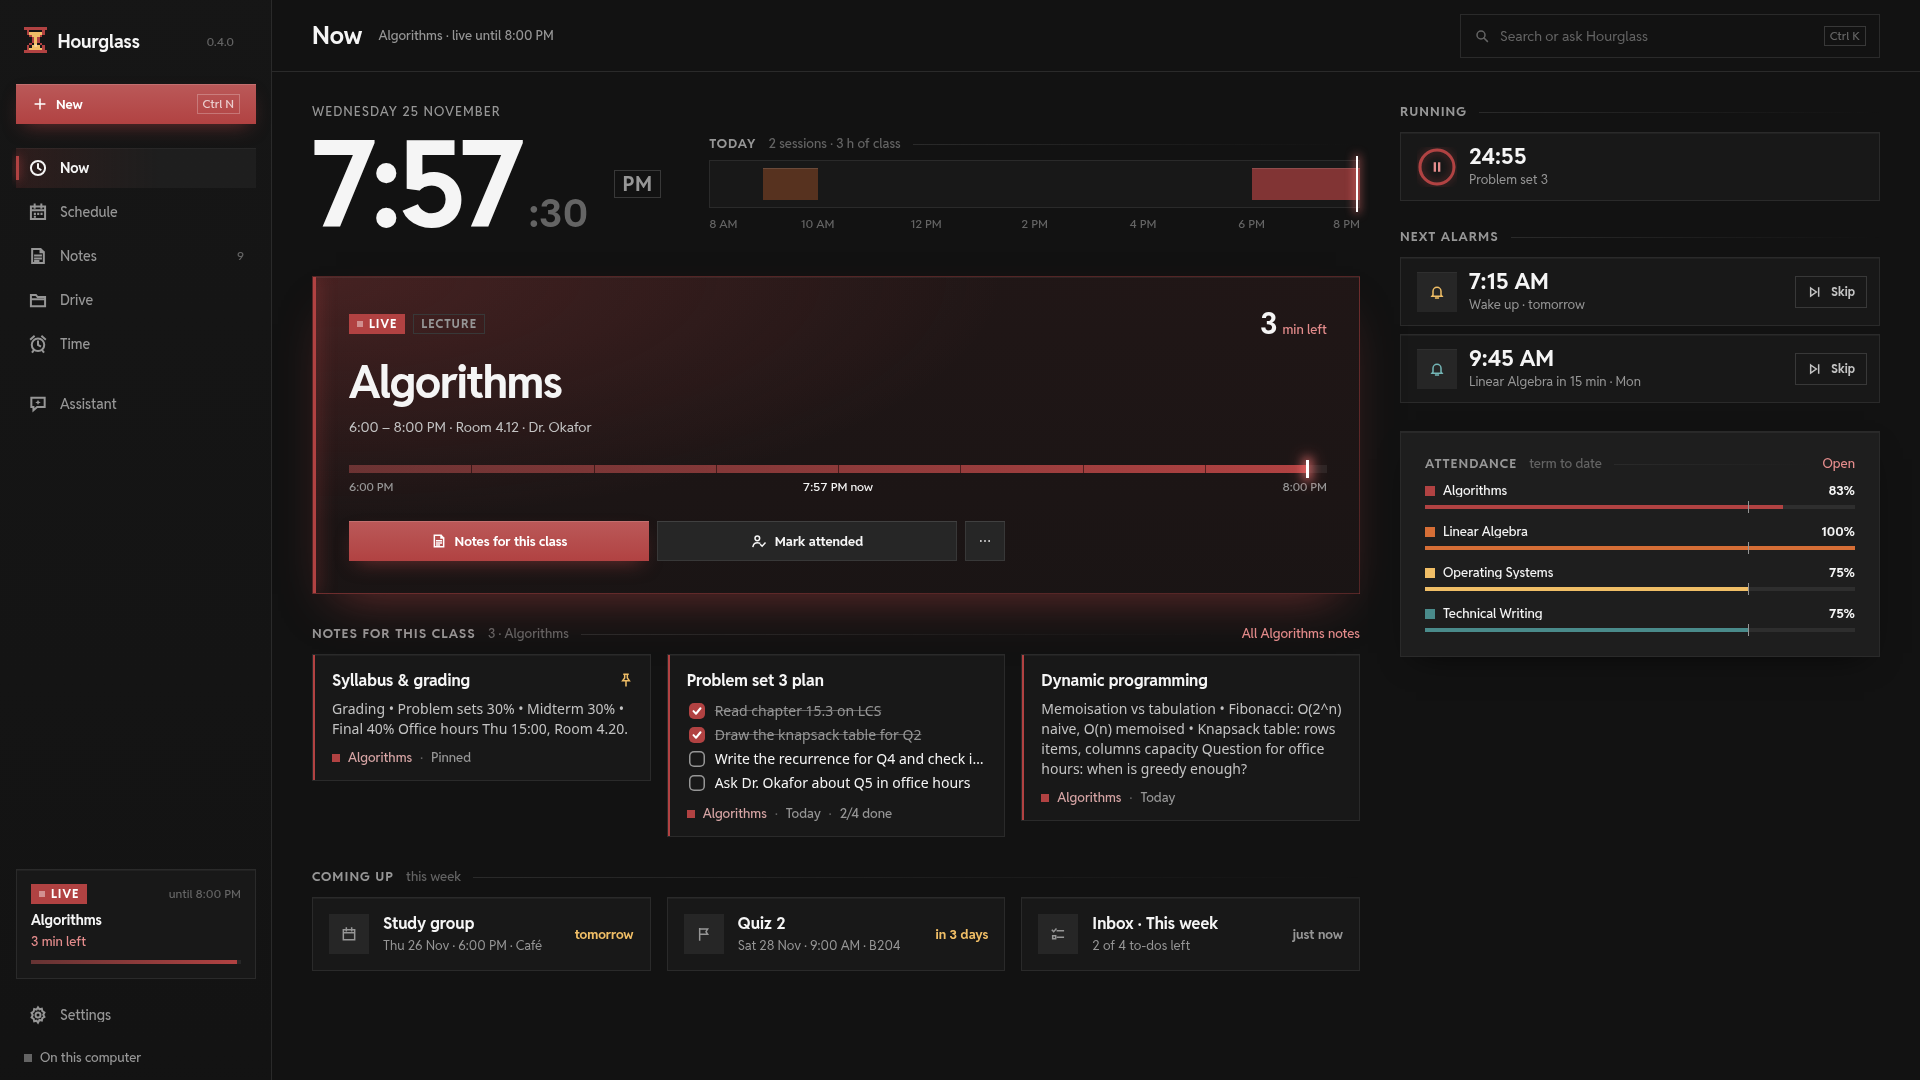
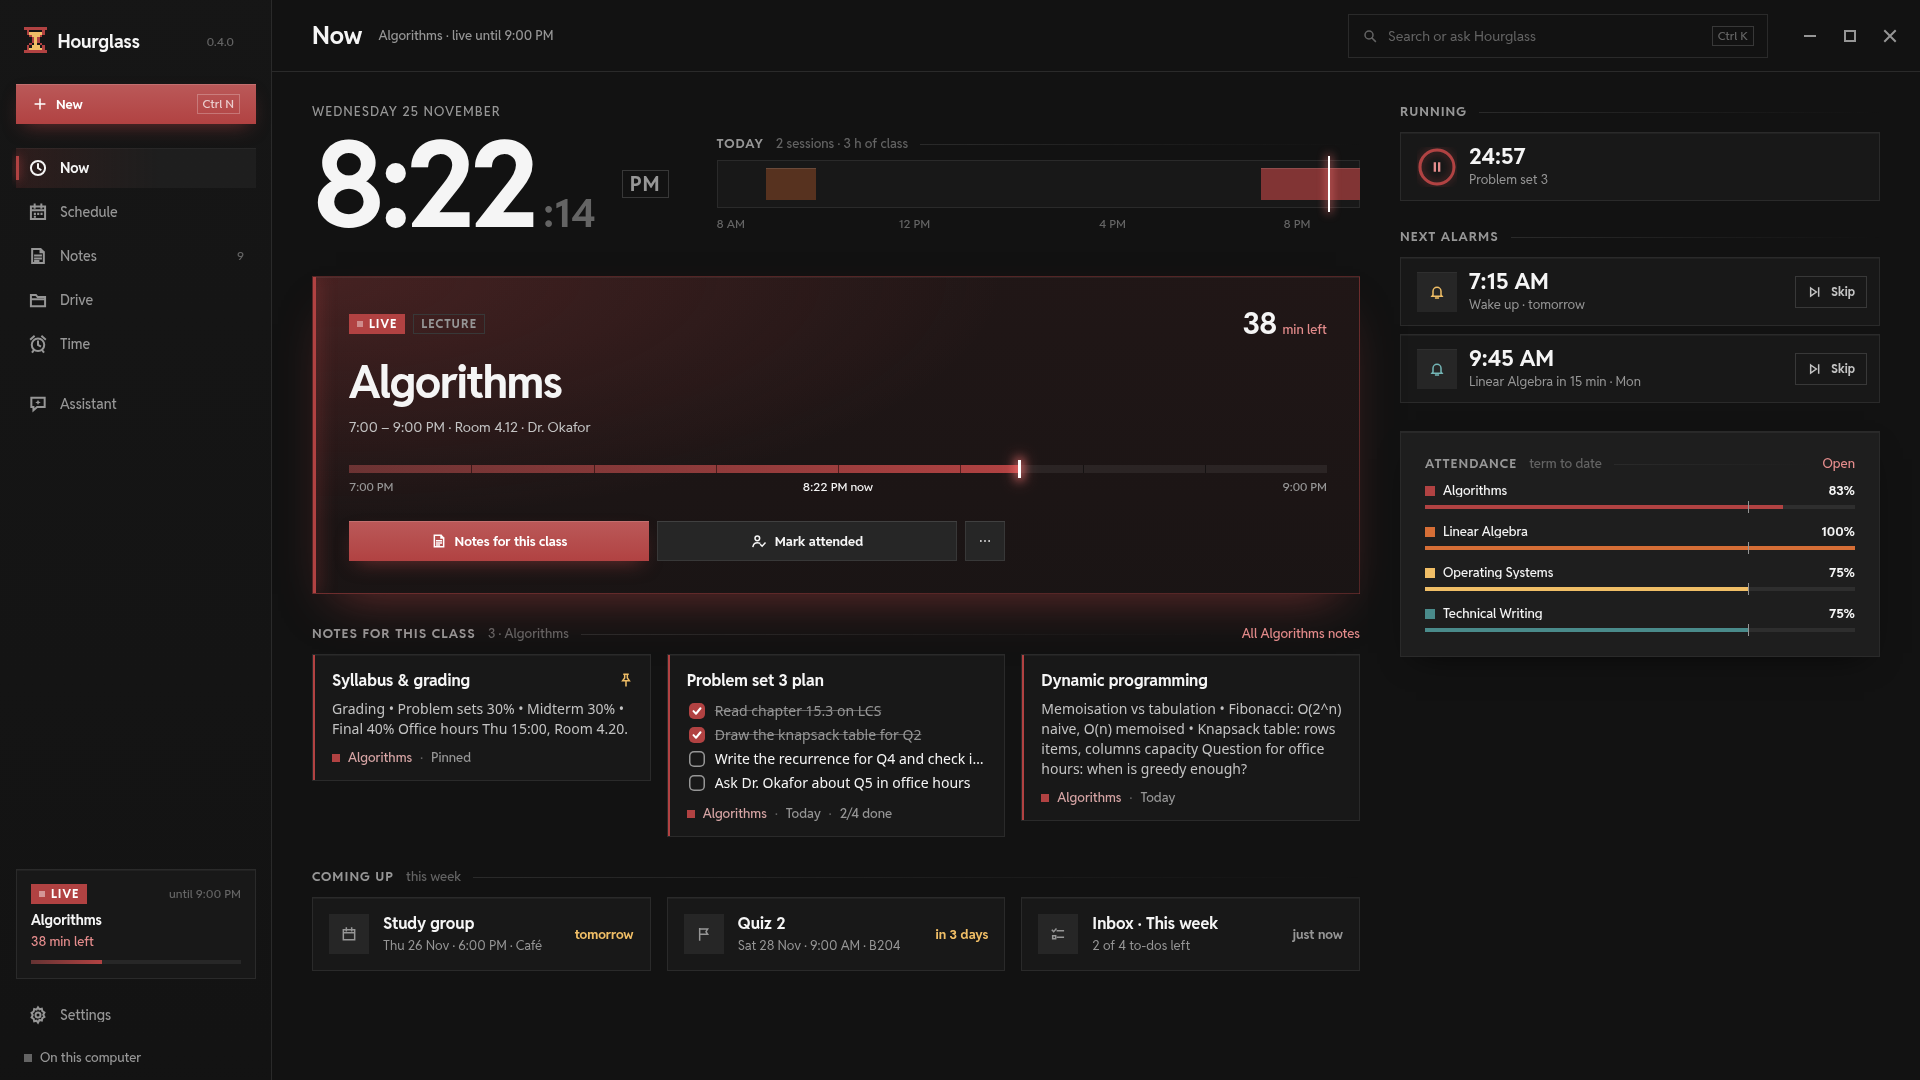
Desktop 0.4: own window controls instead of the native title bar
- decorations(false) on the main window; capabilities grant minimize, maximize, toggle-maximize, is-maximized, close, start-dragging, start-resize-dragging
- ui/window.js: min / max (restore when maximized) / close at the right end of every page header, drawn on an 18-unit grid at 18 px, close hovers the red accent; the signed-out window gets a slim bar with the same buttons
- The header's empty parts and the sidebar logo row are a drag region (double-click maximizes); Alt+F4 closes; edge handles resize through startResizeDragging
- Close still hides to the tray (CloseRequested is unchanged)

diff --git a/desktop/ui/window.js b/desktop/ui/window.js
@@ -1,0 +1,58 @@
+// The window's own frame: minimize / maximize / close at the right end of the top bar (the native title bar is off),
+// a drag region for the bar and the sidebar's logo row, and invisible edge handles so the undecorated window still
+// resizes. Looks and behaves like Jukebox's. In a plain browser (dev) the buttons do nothing.
+import { h } from './dom.js';
+
+const T = globalThis.__TAURI__;
+const win = T?.window?.getCurrentWindow?.();
+
+// The art is drawn on an 18-unit grid and shown at 18 px, so one unit is one screen pixel: 2 px square-capped
+// strokes on whole coordinates land exactly on pixels.
+const svg = (cls, body) => `<svg class="${cls}" width="18" height="18" viewBox="0 0 18 18" fill="none" stroke="currentColor" stroke-width="2" stroke-linecap="square" stroke-linejoin="miter" aria-hidden="true">${body}</svg>`;
+const ART = {
+  min: svg('w-min', '<path d="M4 9h10"/>'),
+  max: svg('w-max', '<path d="M4 4h10v10H4z"/>') + svg('w-restore', '<path d="M7 7V3h8v8h-4"/><path d="M3 7h8v8H3z"/>'),
+  close: svg('w-close', '<path d="M4 4l10 10M14 4L4 14"/>'),
+};
+const LABEL = { min: 'Minimize', max: 'Maximize', close: 'Close' };
+
+// Three buttons; every cluster on screen follows the window's maximize state.
+export function windowControls() {
+  const btn = (a) => h('button', { class: `wbtn ${a === 'close' ? 'wclose' : ''}`, type: 'button', 'data-win': a, 'aria-label': LABEL[a], 'data-tip': LABEL[a], html: ART[a],
+    onclick: () => {
+      if (!win) return;
+      if (a === 'min') win.minimize().catch(() => {});
+      else if (a === 'max') win.toggleMaximize().then(syncMax).catch(() => {});
+      else win.close().catch(() => {});
+    } });
+  return h('div', { class: 'wctl' }, btn('min'), btn('max'), btn('close'));
+}
+
+// A drag region is the element itself, not its children: mark the bar and its plain text/gap elements.
+export function dragRegion(...els) { for (const el of els) if (el) el.setAttribute('data-tauri-drag-region', ''); return els[0]; }
+
+function syncMax() {
+  win?.isMaximized().then((m) => {
+    document.body.classList.toggle('maxed', m);
+    for (const b of document.querySelectorAll('[data-win]')) {
+      b.classList.toggle('maximized', m);
+      if (b.dataset.win === 'max') { const t = m ? 'Restore' : 'Maximize'; b.setAttribute('aria-label', t); b.dataset.tip = t; }
+    }
+  }).catch(() => {});
+}
+
+if (win) {
+  // Alt+F4: with no native frame the page can hold the key, so it closes the window the way the X does
+  // (the window hides to the tray; Quit in the tray menu ends the app).
+  addEventListener('keydown', (e) => { if (e.altKey && e.key === 'F4') { e.preventDefault(); win.close().catch(() => {}); } });
+  // Edge handles: the page covers the whole window, so the native frame can't reach the edges.
+  const rz = h('div', { id: 'rz' }, ['North', 'South', 'East', 'West', 'NorthEast', 'NorthWest', 'SouthEast', 'SouthWest'].map((d) => h('div', {
+    class: `rz rz-${d}`,
+    onmousedown: (e) => { if (e.button !== 0) return; e.preventDefault(); win.startResizeDragging(d).catch(() => {}); },
+  })));
+  document.body.append(rz);
+  // Double-click, snapping and the keyboard change the state without the button, so the glyph follows the window.
+  let t = 0;
+  win.onResized?.(() => { clearTimeout(t); t = setTimeout(syncMax, 80); });
+  syncMax();
+}

diff --git a/desktop/ui/app.js b/desktop/ui/app.js
@@ -8,6 +8,7 @@ import { PAGES, NAV } from './pages/index.js';
 import * as dialogs from './pages/dialogs.js';
 import { startUploadPanel } from './uploads.js';
 import './native.js';
+import { windowControls, dragRegion } from './window.js';
 
 const TAURI = globalThis.__TAURI__;
 const invoke = (cmd, args) => TAURI?.core?.invoke(cmd, args);
@@ -39,13 +40,17 @@ const ctx = {
   // The page header every page draws (REDESIGN §3): title, a muted context line or controls, actions.
   // Every header ends with Search or ask (the command palette, Ctrl K).
   head({ title, ctx: line, mid, acts = [], back, ask = true } = {}) {
-    return h('div', { class: 'head' },
+    const bar = h('div', { class: 'head' },
       back ? kit.btn('Back', back, { kind: 'subtle', icon: 'back', title: 'Back (Esc)', cls: 'back' }) : null,
       h('h1', { text: title }),
       line != null ? h('span', { class: 'ctx', text: line }) : null,
       mid ? h('div', { class: 'mid' }, mid) : null,
       h('div', { class: 'acts' }, acts),
-      ask ? h('button', { class: 'ask', type: 'button', title: 'Search or ask Hourglass (Ctrl K)', onclick: () => openPalette() }, icon('search'), h('span', { class: 'lbl', text: 'Search or ask Hourglass' }), h('kbd', { text: 'Ctrl K' })) : null);
+      ask ? h('button', { class: 'ask', type: 'button', title: 'Search or ask Hourglass (Ctrl K)', onclick: () => openPalette() }, icon('search'), h('span', { class: 'lbl', text: 'Search or ask Hourglass' }), h('kbd', { text: 'Ctrl K' })) : null,
+      windowControls());
+    // The bar's empty parts drag the window (a double-click maximizes); buttons, fields and links stay clickable.
+    dragRegion(bar, ...bar.querySelectorAll(':scope > h1, :scope > .ctx, :scope > .mid, :scope > .acts'));
+    return bar;
   },
   courseById: (id) => state.courses.find((c) => c.id === id) || null,
   courseColor: (id) => ctx.courseById(id)?.color || 'var(--teal)',
@@ -330,7 +335,7 @@ function renderSide(animate = false) {
     syncLine());
 
   side.replaceChildren(
-    h('div', { class: 'brand' }, logo(2.6, { alive: true }), h('b', { text: 'Hourglass' }), h('span', { class: 'ver', text: VERSION })),
+    dragRegion(h('div', { class: 'brand' }, logo(2.6, { alive: true }), h('b', { text: 'Hourglass' }), h('span', { class: 'ver', text: VERSION }))),
     kit.btn('New', (e) => newMenu(e.currentTarget), { kind: 'primary', icon: 'plus', kbd: 'Ctrl N', cls: 'new', title: 'New' }),
     navs, h('span', { class: 'grow' }), foot);
   placeNavBar(animate);
@@ -548,7 +553,9 @@ let loginEl = null;
 function renderLogin() {
   const out = state.dev.has('login') || (state.loaded && state.app.account && !state.app.account.signed_in && !state.dev.has('nologin'));
   if (out && !loginEl) {
+    // Signed out there is no page header: a slim bar at the top carries the drag region and the window buttons.
     loginEl = h('div', { class: 'login-wrap' });
+    loginEl.append(dragRegion(h('div', { class: 'wbar' }, windowControls())));
     document.body.append(loginEl);
     PAGES.login.mount(loginEl, ctx);
   } else if (!out && loginEl) {

diff --git a/desktop/ui/css/shell.css b/desktop/ui/css/shell.css
@@ -170,3 +170,25 @@
 /* Burst of pixels for finishing things. */
 .burst { position: fixed; z-index: 150; width: 5px; height: 5px; pointer-events: none; }
 @container page (max-width: 700px) { .section small { display: none; } }
+
+/* ---- window frame: drag regions, the three window buttons, the edge handles (window.js) ---- */
+.brand > * { pointer-events: none; }
+.wctl { display: flex; align-items: center; gap: 4px; flex: none; margin-left: 8px; margin-right: calc(12px - var(--pad)); }
+.head:not(:has(.ask)):not(:has(.acts:not(:empty))) > .wctl { margin-left: auto; }
+.wbtn { width: 36px; height: 36px; padding: 0; display: flex; align-items: center; justify-content: center; flex: none; border: 0; border-radius: 0; background: transparent; color: var(--muted); cursor: pointer; transition: background-color var(--quick) var(--ease), color var(--quick) var(--ease); }
+.wbtn:hover { background: var(--surface3); color: var(--fg); }
+.wbtn:active { background: var(--surface4); }
+.wbtn svg { display: block; }
+.wbtn .w-restore { display: none; }
+.wbtn.maximized .w-max { display: none; }
+.wbtn.maximized .w-restore { display: block; }
+.wbtn.wclose:hover, .wbtn.wclose:active { background: var(--accent); color: var(--on-accent); }
+.wbar { position: fixed; top: 0; left: 0; right: 0; height: 48px; display: flex; justify-content: flex-end; align-items: center; padding: 0 12px; z-index: 1; }
+#rz .rz { position: fixed; z-index: 200; }
+body.maxed #rz { display: none; }
+#rz .rz-North, #rz .rz-South { left: 8px; right: 8px; height: 5px; cursor: ns-resize; }
+#rz .rz-East, #rz .rz-West { top: 8px; bottom: 8px; width: 5px; cursor: ew-resize; }
+#rz .rz-North { top: 0; } #rz .rz-South { bottom: 0; } #rz .rz-East { right: 0; } #rz .rz-West { left: 0; }
+#rz .rz-NorthEast, #rz .rz-NorthWest, #rz .rz-SouthEast, #rz .rz-SouthWest { width: 8px; height: 8px; }
+#rz .rz-NorthEast { top: 0; right: 0; cursor: nesw-resize; } #rz .rz-SouthWest { bottom: 0; left: 0; cursor: nesw-resize; }
+#rz .rz-NorthWest { top: 0; left: 0; cursor: nwse-resize; } #rz .rz-SouthEast { bottom: 0; right: 0; cursor: nwse-resize; }

diff --git a/desktop/src-tauri/src/lib.rs b/desktop/src-tauri/src/lib.rs
@@ -162,6 +162,8 @@ pub fn run() {
         .setup(move |app| {
             let builder = WebviewWindowBuilder::new(app, "main", WebviewUrl::App("index.html".into()))
                 .title("Hourglass")
+                // No native title bar: the page draws its own minimize / maximize / close (ui/window.js).
+                .decorations(false)
                 .inner_size(1240.0, 820.0)
                 .min_inner_size(720.0, 520.0)
                 .background_color(Color(18, 18, 18, 255))
